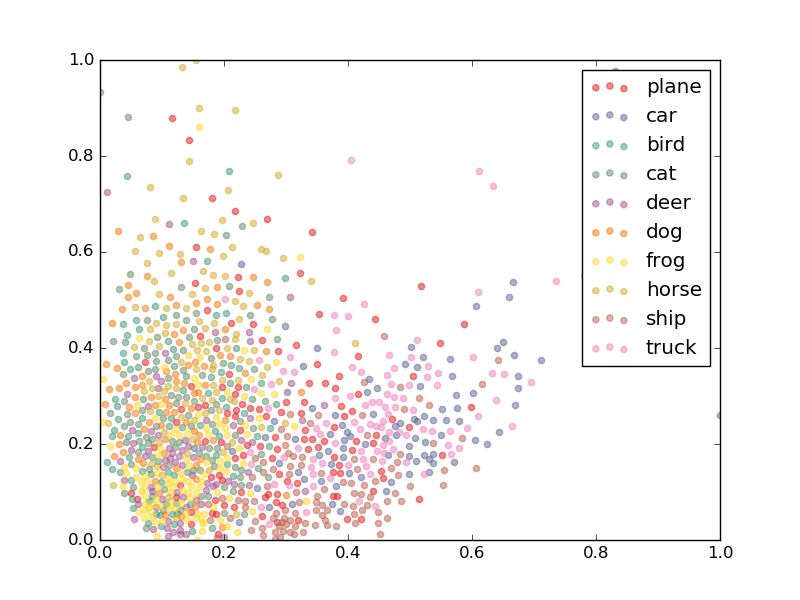
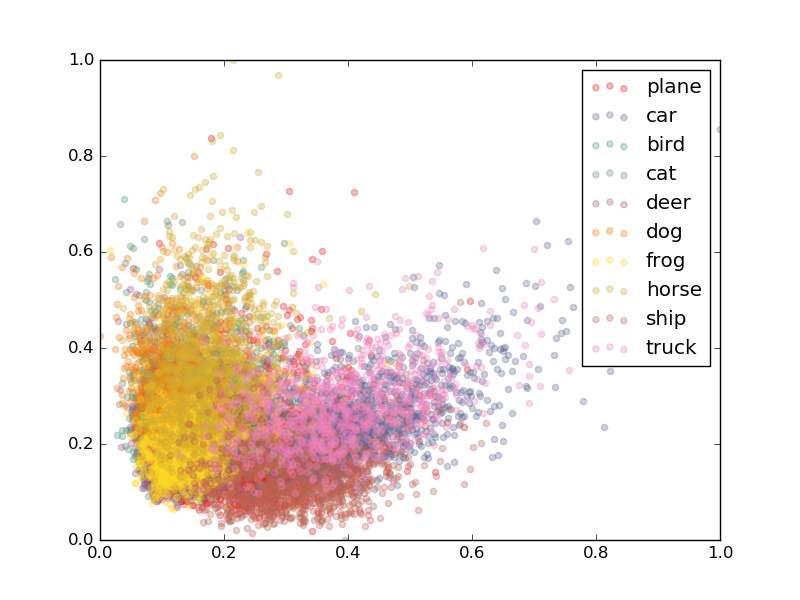
merge

diff --git a/practical_3/train_model.py b/practical_3/train_model.py
@@ -334,20 +334,21 @@ def _tnse(layer, logits, name):
     pca[:,1] = pca[:,1]/ float(np.max(pca[:,1]))
 
 
-    prediction = np.argmax(logits[0:1000], axis=1)
+    prediction = np.argmax(logits, axis=1)
     print("Creating figure")
-    pca = pca[0:1000,:,:,:] 
     # create figure
     fig = plt.figure()
     classes = ['plane', 'car', 'bird', 'cat', 'deer', 'dog', 'frog', 'horse', 'ship', 'truck']
     for i in range(len(classes)):
         class_points = pca[prediction == i]
-        plt.scatter(class_points[:,0], class_points[:,1], color=plt.cm.Set1(i*25), alpha=0.5)
+        plt.scatter(class_points[:,0], class_points[:,1], color=plt.cm.Set1(i*25), alpha=0.3)
     plt.axis([0,1,0,1])
     plt.legend(tuple(classes))
     print("Saved image to images/%s"%name)
     plt.savefig('images/%s'%name)
     plt.close()
+
+
 def initialize_folders():
     """
     Initializes all folders in FLAGS variable.
@@ -385,7 +386,7 @@ def main(_):
             raise ValueError("--train_model argument can be linear or siamese")
     else:
         feature_extraction()
-    print("Total run time%i" %((time.time() - start)/60.0))
+    print("Total run time%i seconds" %((time.time() - start)))
 
 
 
